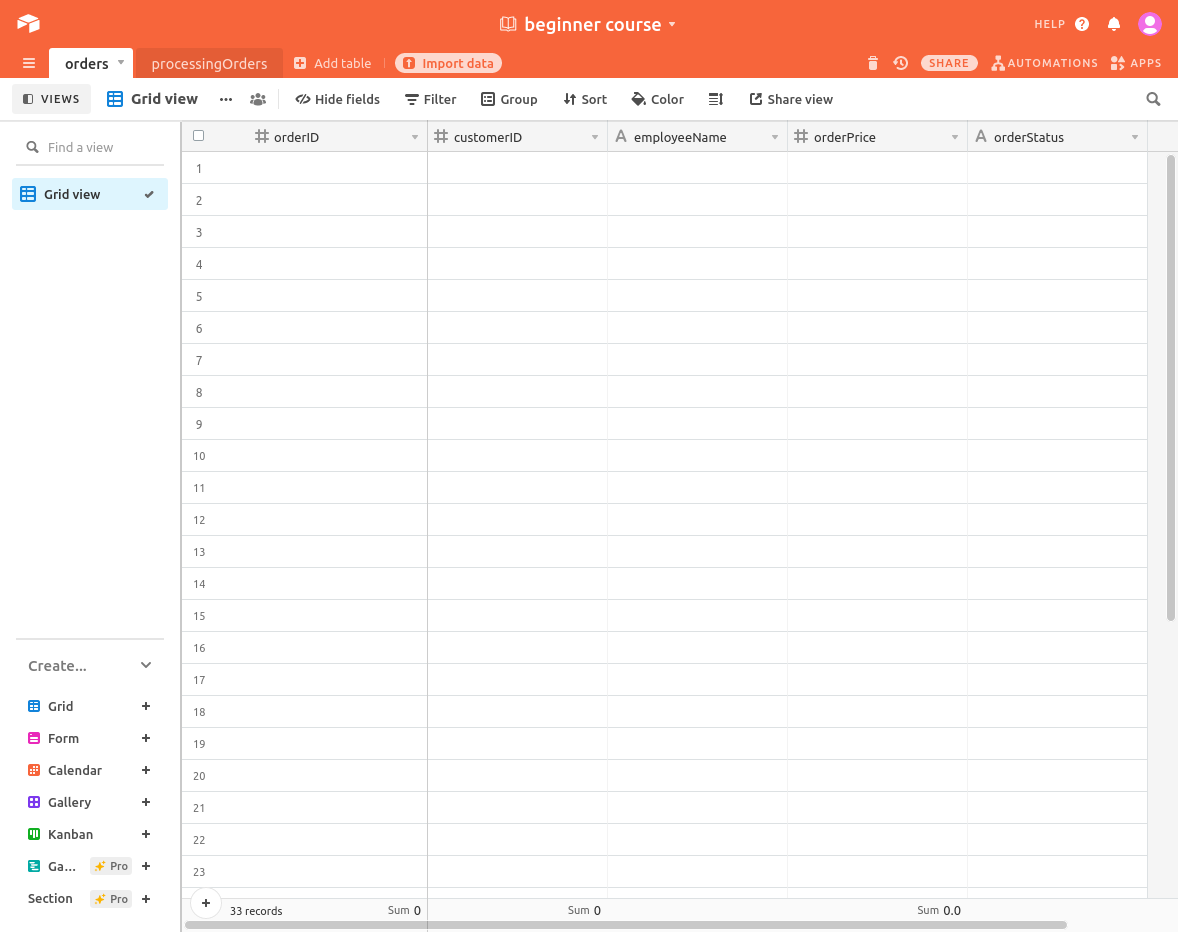
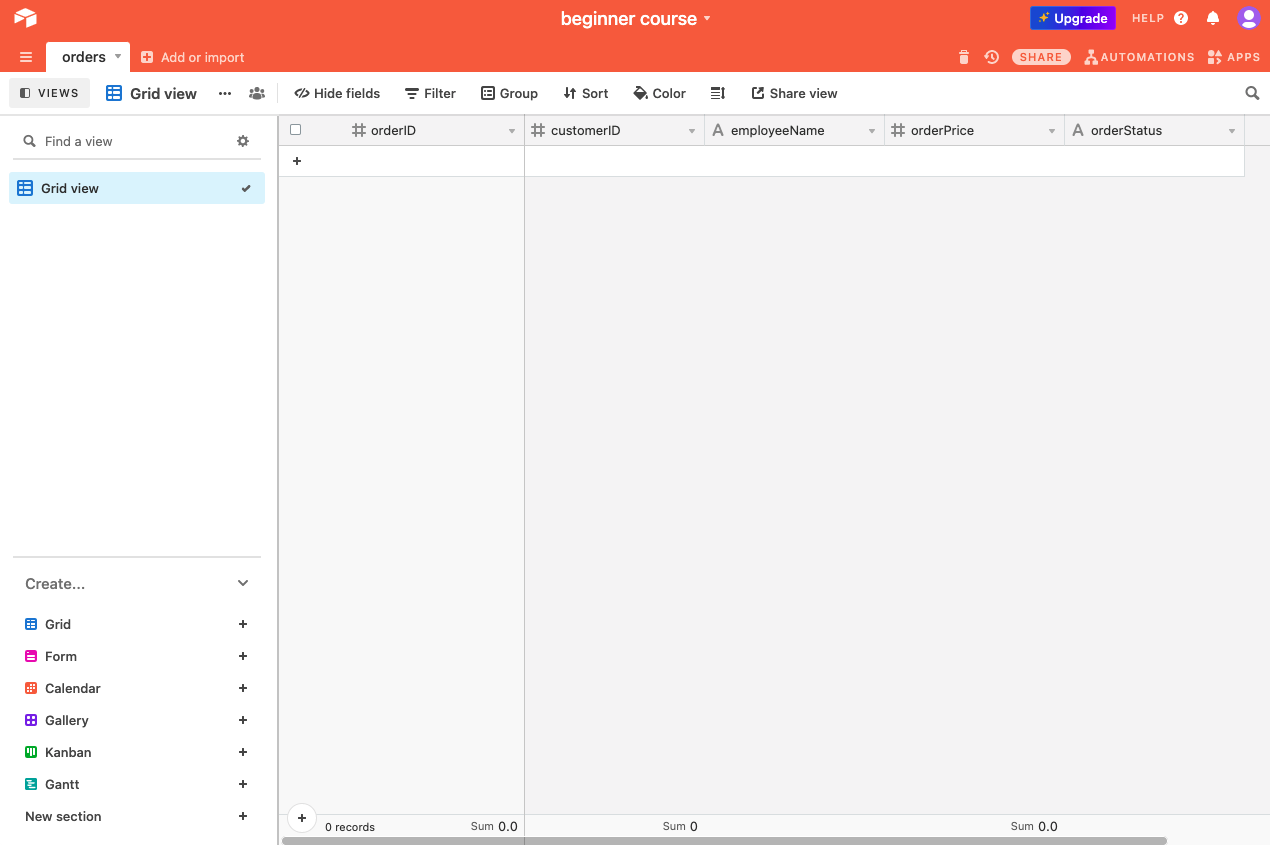
🔨usability updates

diff --git a/docs/courses/level-one/chapter-1.md b/docs/courses/level-one/chapter-1.md
@@ -8,7 +8,8 @@ In this lesson you will learn how to navigate the Editor UI. We will walk throug
 
 First of all, you need to set up n8n. There are different ways to [get started with n8n](https://docs.n8n.io/getting-started/installation/), you can: 
 
-* [Install it locally with npm](https://docs.n8n.io/getting-started/installation/#npm) * Run it using [Docker](https://docs.n8n.io/getting-started/installation/docker-quickstart.html)
+* [Install it locally with npm](https://docs.n8n.io/getting-started/installation/#npm) 
+* Run it using [Docker](https://docs.n8n.io/getting-started/installation/docker-quickstart.html)
 * Sign up on [n8n.cloud](http://n8n.cloud)
 
 **This course was developed on n8n version 0.127.0, make sure you are using the same or newer version.**
@@ -23,7 +24,7 @@ Now that you have the Editor UI open, you'll learn how to navigate it.
 
 ## Editor UI settings
 
-The [Editor UI](http://docs.n8n.io/reference/glossary.html#editor-ui) represents the web interface used to create [workflows](http://docs.n8n.io/getting-started/key-components/workflow.html). Think of it as a canvas where the artist in you will create automations. From the Editor UI, you can access all your workflows and credentials, as well as the n8n documentation and forum.
+The [Editor UI](http://docs.n8n.io/reference/glossary.html#editor-ui) represents the web interface used to create [workflows](http://docs.n8n.io/getting-started/key-components/workflow.html). Think of it as a canvas where the artist in you will create automations. From the Editor UI you can access all your workflows and credentials, as well as the n8n documentation and forum.
 
 ### Left-side panel
 
@@ -33,11 +34,12 @@ Under the n8n logo in the upper left corner you will notice a round arrow icon. 
 
 
 There are four main sections in the left menu:
-- The *Admin Panel*, only for users on n8n.cloud.
-- The *Workflows* section includes operations for creating and editing workflows.
-- The *Credentials* section includes operations for creating credentials.
-- The *Executions* section includes information about your workflow [executions](http://docs.n8n.io/reference/glossary.html#execution), which are complete runs of a workflow from the first to the last node.
-- The *Help* section includes resources around n8n product and community.
+
+- *Admin Panel*: Only for users on n8n.cloud, used to access the management Dashboard.
+- *Workflows*: Contains operations for creating and editing workflows.
+- *Credentials*: Contains operations for creating credentials.
+- *Executions*: Contains information about your workflow [executions](http://docs.n8n.io/reference/glossary.html#execution), which are complete runs of a workflow from the first to the last node.
+- *Help*: Contains resources around n8n product and community.
 
 ### Top bar
 

diff --git a/docs/courses/level-one/chapter-5/chapter-5.4.md b/docs/courses/level-one/chapter-5/chapter-5.4.md
@@ -10,7 +10,7 @@ For this, you need to use the [**Set node**](../../../nodes/nodes-library/core-n
 The *Set* node can set completely new data as well as overwrite data that already exists. This node is crucial in workflows which expect incoming data from previous nodes, such as when inserting values into spreadsheets or databases.
 :::
 
-In your workflow, add a new *Set* node between the *IF* node and the *Airtable* node. In the Set node window you need to add two values, similar to the *IF* node:
+In your workflow, add a new *Set* node between the *IF* node and the *Airtable* node. In the Set node window you need to toggle *Keep Only Set* to true and then add two values:
 
 ::: v-pre
 - *Add Value > Number:*
@@ -20,7 +20,7 @@ In your workflow, add a new *Set* node between the *IF* node and the *Airtable* 
 - *Add Value > String:*
   - *Name:* employeeName
   - *Value:* `{{$json["employeeName"]}}`
-    *Current Node > Input Data > JSON > orderID*
+    *Current Node > Input Data > JSON > employeeName*
 :::
 
 After setting the two values click on *Execute Node* and you should see the following results:
@@ -28,6 +28,8 @@ After setting the two values click on *Execute Node* and you should see the foll
 <figure><img src="../images/chapter-two/Set-node.png" alt="Set node" style="width:100%"><figcaption align = "center"><i>Set node</i></figcaption></figure>
 
 Next, we need to insert these values into Airtable. Go to your Airtable account and add a new table called *processingOrders* with two columns, *orderId* and *employeeName*, just like you learned in the lesson [Inserting data into Airtable](#inserting-data-into-airtable).
+
+Remember to update the Airtable node configuration to point to this new table.
 
 Once that’s done, execute the *Airtable* node in the workflow and you should see the records inserted in the table.
 

diff --git a/docs/courses/level-one/README.md b/docs/courses/level-one/README.md
@@ -13,7 +13,7 @@ This course is for you if you:
 
 ## What will I learn?
 
-By the end of this course, you will know:
+By the end of this course you will know:
 
 - How to set up n8n and navigate the Editor UI
 - How data is structured in n8n
@@ -39,9 +39,10 @@ Throughout the course, we will use some symbols to highlight information:<br/>
 
 ## What do I need to get started?
 
+Sign-up [here](https://n8n-community.typeform.com/to/PDEMrevI) to get a Unique ID that you'll need in the course. Then all you need is:
+
 - A computer with macOS, Windows, or Linux
 - Some basic knowledge of JavaScript and [APIs](https://n8n.io/blog/what-are-apis-how-to-use-them-with-no-code/) are nice-to-haves
-- Sign-up [here](https://n8n-community.typeform.com/to/PDEMrevI) to get a Unique ID that you'll need in the course
 - Eagerness to learn about the power of low-code automation
 
 ## How long does it take to complete the course?

diff --git a/docs/courses/level-one/chapter-5/chapter-5.2.md b/docs/courses/level-one/chapter-5/chapter-5.2.md
@@ -15,6 +15,7 @@ If we are going to insert data into Airtable, we first need to set up a table th
 3. In the beginner course base you have by default a *Table 1* with four fields: *Name, Notes, Attachment, and Status*.
 These fields are not relevant for us since they are not in our orders data set. This brings us to the next point: the names of the fields in Airtable have to match the names of the columns in the node result.
 	- Replace the four default table fields with the five column names from the data set.
+	- Delete the 3 blank rows created by default.
 	- Also, rename the table from *Table 1* to *orders* to make it easier to identify.
 
 Now your table should look like this:

diff --git a/docs/courses/README.md b/docs/courses/README.md
@@ -4,7 +4,7 @@ If you’ve found your way here, it means you’re serious about your interest i
 
 Whatever the reason, one thing is clear: you shouldn’t spend precious time doing things that don’t spark joy and don’t contribute to your personal and professional growth.
 
-These tasks can and should be automated! And you don't need advanced technical knowledge or excellent coding skills to do this, with no-code tools like n8n automation if for everyone.
+These tasks can and should be automated! And you don't need advanced technical knowledge or excellent coding skills to do this, with no-code tools like n8n automation is for everyone.
 
 ## Available courses
 
